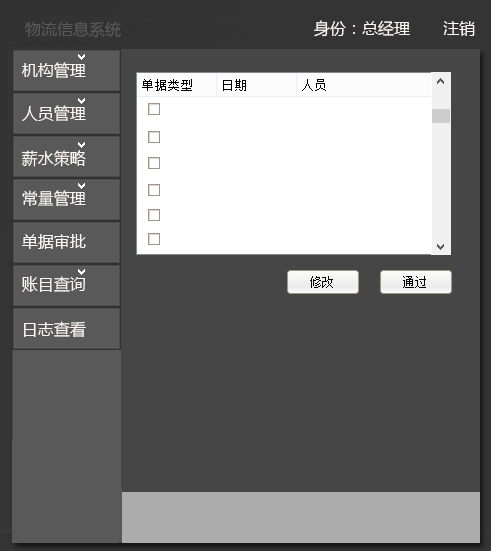
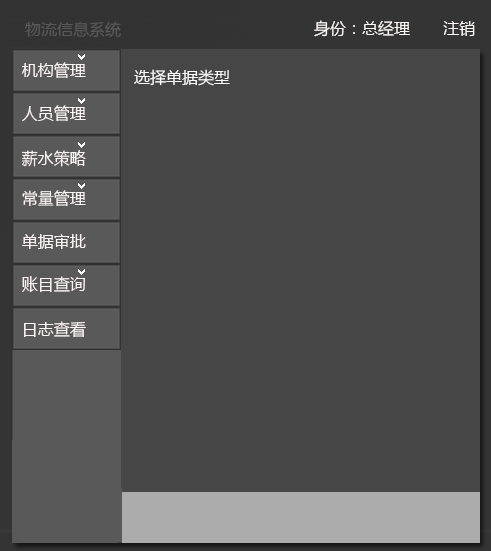
manager

Changed region(s): [[0.2749, 0.1234, 0.947, 0.5554]]

diff --git a/ExpressSystem/client/src/main/java/nju/sec/yz/ExpressSystem/presentation/managerui/ManagerLogCheck.java b/ExpressSystem/client/src/main/java/nju/sec/yz/ExpressSystem/presentation/managerui/ManagerLogCheck.java
@@ -1,11 +1,28 @@
 package nju.sec.yz.ExpressSystem.presentation.managerui;
 
+import java.awt.Graphics;
+import java.awt.Image;
+import java.awt.event.MouseAdapter;
+import java.awt.event.MouseEvent;
+import java.awt.event.MouseListener;
+import java.util.ArrayList;
+
+import javax.swing.ImageIcon;
+import javax.swing.JButton;
 import javax.swing.JPanel;
+import javax.swing.JScrollPane;
+import javax.swing.JTable;
+import javax.swing.event.DocumentEvent;
+import javax.swing.event.DocumentListener;
+import javax.swing.table.DefaultTableModel;
+import javax.swing.table.TableModel;
 
 import nju.sec.yz.ExpressSystem.bl.accountbl.LogController;
 import nju.sec.yz.ExpressSystem.blservice.accountBlService.LogBlService;
 import nju.sec.yz.ExpressSystem.presentation.DateChooser;
 import nju.sec.yz.ExpressSystem.presentation.controlerui.ClientControler;
+import nju.sec.yz.ExpressSystem.vo.BussinessVO;
+import nju.sec.yz.ExpressSystem.vo.LogVO;
 
 public class ManagerLogCheck extends JPanel{
 
@@ -13,7 +30,16 @@ public class ManagerLogCheck extends JPanel{
 	private ClientControler maincontroler;
 private  ManagerButtonComponent mbc;
 
+private String[] title={"时间","人员","操作"};
+private String[][] TableData;
+
 private DateChooser date;
+
+private JTable table;
+private TableModel model;
+private JScrollPane jsc;
+
+private JButton back;
 	
 	public ManagerLogCheck(ClientControler maincontroler,ManagerButtonComponent mbc) {
 		this.maincontroler=maincontroler;
@@ -29,7 +55,79 @@ private DateChooser date;
 		setSize(490, 550);
 		setVisible(true);
 		
+		
+		
+		TableData=new String[][]{{"","",""}};
+		model=new DefaultTableModel(TableData,title);
+		table=new JTable(model);
+		jsc=new JScrollPane(table);
+		jsc.setBounds(143,101,313,185);
+		add(jsc);
+		
+//		original();
+		
+		
 		date=new DateChooser(this,259,63);
 		
+		date.showDate.getDocument().addDocumentListener(new DocumentListener(){
+		   
+			@Override
+			public void insertUpdate(DocumentEvent e) {
+				ArrayList<LogVO> loglist=log.getByTime(date.getTime());
+				TableData=new String[loglist.size()][3];
+				for(int i=0;i<loglist.size();i++){
+					TableData[i][0]=loglist.get(i).getTime();
+					TableData[i][1]=loglist.get(i).getPerson();
+					TableData[i][2]=loglist.get(i).getOperation();
+				}
+				model=new DefaultTableModel(TableData,title);
+				table.setModel(model);
+				table.repaint();
+			}
+			@Override
+			public void removeUpdate(DocumentEvent e) {
+				
+			}
+			@Override
+			public void changedUpdate(DocumentEvent e) {
+				
+			}
+		});
+		
+		
+		ImageIcon backIcon =new ImageIcon("graphic/manager/button/allList.png");
+		back=new JButton(backIcon);
+		back.setBounds(357,300,90,23);
+		add(back);
+		
+		
+		back.addMouseListener(new MouseAdapter() {
+			public void mouseClicked(MouseEvent e) {
+				original();
+			}
+		});
+	}
+	private void original() {
+		// TODO Auto-generated method stub
+		ArrayList<LogVO> allvo=log.getAll();
+		TableData=new String[allvo.size()][3];
+		for(int i=0;i<allvo.size();i++){
+			TableData[i][0]=allvo.get(i).getTime();
+			TableData[i][1]=allvo.get(i).getPerson();
+			TableData[i][2]=allvo.get(i).getOperation();
+		}
+		model=new DefaultTableModel(TableData,title);
+		table.setModel(model);
+		table.repaint();
+	}
+
+
+	@Override
+	public void paintComponent(Graphics g) {
+
+		Image img01 = new ImageIcon("graphic/manager/background/background20.png").getImage();
+
+		g.drawImage(img01, 0, 0, 490, 550, null);
+
 	}
 }

diff --git a/ExpressSystem/client/src/main/java/nju/sec/yz/ExpressSystem/presentation/managerui/ManagerReceiptList.java b/ExpressSystem/client/src/main/java/nju/sec/yz/ExpressSystem/presentation/managerui/ManagerReceiptList.java
@@ -1,24 +1,72 @@
 package nju.sec.yz.ExpressSystem.presentation.managerui;
 
+import java.awt.Graphics;
+import java.awt.Image;
+
+import javax.swing.ImageIcon;
+import javax.swing.JComboBox;
 import javax.swing.JPanel;
+import javax.swing.JScrollPane;
+import javax.swing.JTable;
+import javax.swing.table.DefaultTableModel;
+import javax.swing.table.TableColumn;
+import javax.swing.table.TableModel;
 
 import nju.sec.yz.ExpressSystem.bl.receiptbl.ReceiptController;
 import nju.sec.yz.ExpressSystem.blservice.receiptBlService.ReceiptBlService;
 import nju.sec.yz.ExpressSystem.presentation.controlerui.ClientControler;
 
-public class ManagerReceiptList extends JPanel{
-	
-	private ReceiptBlService receipt=new ReceiptController();
-	
+public class ManagerReceiptList extends JPanel {
+
+	private ReceiptBlService receipt = new ReceiptController();
+
 	private ClientControler maincontroler;
-private  ManagerButtonComponent mbc;
+	private ManagerButtonComponent mbc;
+	private JComboBox type;
 	
-	public ManagerReceiptList(ClientControler maincontroler,ManagerButtonComponent mbc) {
-		this.maincontroler=maincontroler;
-		this.mbc=mbc;
+	private JTable table;
+	private TableModel model;
+	private JScrollPane jsc;
+	private Object[][] TableData={};
+	private String[] title={};
+
+	public ManagerReceiptList(ClientControler maincontroler, ManagerButtonComponent mbc) {
+		this.maincontroler = maincontroler;
+		this.mbc = mbc;
 		mbc.changePanel(this);
-		mbc.change();	
+		mbc.change();
 		iniManagerReceiptList();
+		
+		String[] reitype={"收款单","付款单","寄件单","营业厅装车单",
+				"营业厅收件单","营业厅派送单","汽车中转单","火车中转单","飞机中转单",
+				"中转中心接收单","中转中心装车单","入库单","出库单"};
+		type=new JComboBox(reitype);
+		type.setBounds(246,67,121,20);
+		add(type);
+		
+		model=new DefaultTableModel(TableData,title);
+		table=new JTable(model);
+		jsc=new JScrollPane(table);
+		jsc.setBounds(134,100,333,257);
+		add(jsc);
+		
+		TableData=new String[3][2];
+		title=new String[2];
+		model=new DefaultTableModel(TableData,title);
+		
+		table.setModel(model);
+//		JCheckBox check=new JCheckBox();
+//		table.getColumnModel().getColumn(2).setCellEditor(table.getDefaultEditor(Boolean.class));
+		
+		
+		
+		TableColumn   aColumn   =   table.getColumnModel().getColumn(0);   
+		aColumn.setCellEditor(table.getDefaultEditor(Boolean.class));  
+		aColumn.setCellRenderer(table.getDefaultRenderer(Boolean.class));
+//		table.setValueAt(Boolean.FALSE, 1, 0);
+//		table.setValueAt(Boolean.TRUE, 2, 0);
+		
+
 	}
 
 	private void iniManagerReceiptList() {
@@ -26,5 +74,12 @@ private  ManagerButtonComponent mbc;
 		setSize(490, 550);
 		setVisible(true);
 	}
+	@Override
+	public void paintComponent(Graphics g) {
 
+		Image img01 = new ImageIcon("graphic/manager/background/background17.png").getImage();
+
+		g.drawImage(img01, 0, 0, 490, 550, null);
+
+	}
 }

diff --git a/ExpressSystem/client/src/main/java/nju/sec/yz/ExpressSystem/presentation/DateChooser.java b/ExpressSystem/client/src/main/java/nju/sec/yz/ExpressSystem/presentation/DateChooser.java
@@ -58,7 +58,7 @@ import javax.swing.Popup;
      private JP4 jp4;
      private Font font=new Font("宋体",Font.PLAIN,12);
      private final LabelManager lm=new LabelManager();
-     private JTextField showDate;//,toSelect;
+     public JTextField showDate;//,toSelect;
      private JButton choose;
      private SimpleDateFormat sdf=new SimpleDateFormat("yyyy年MM月dd日");
      private boolean isShow=false;
